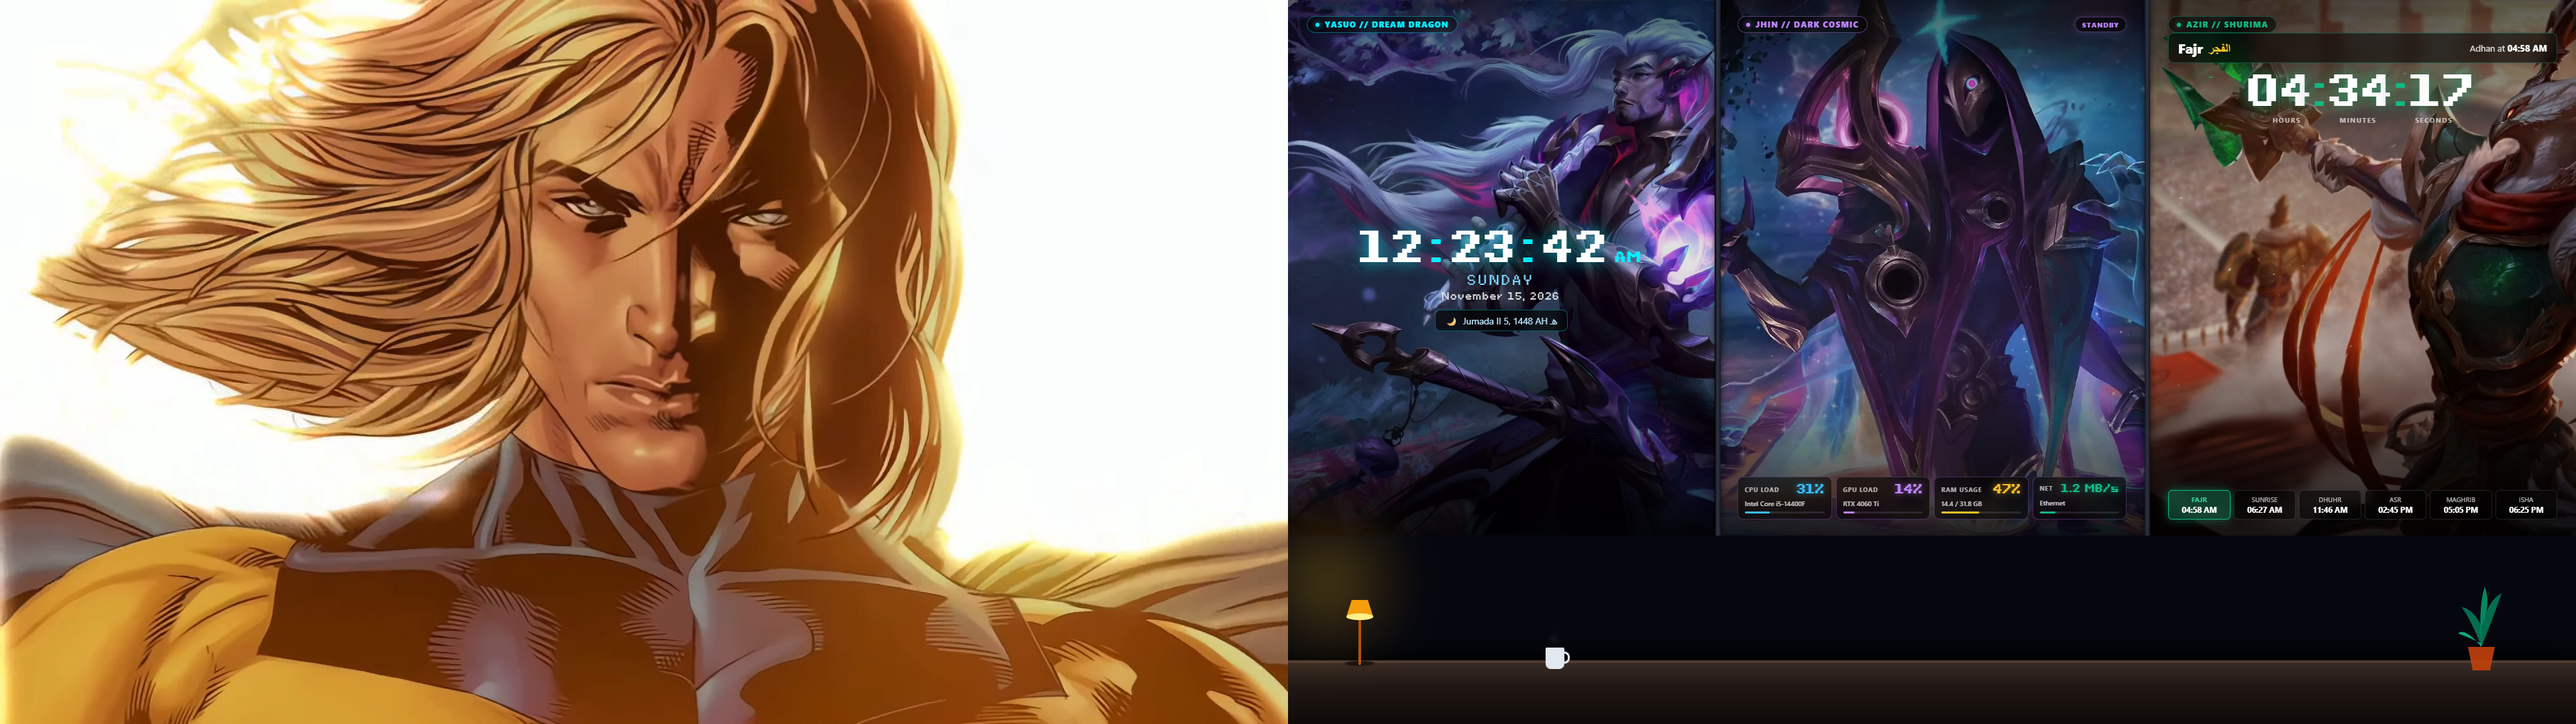
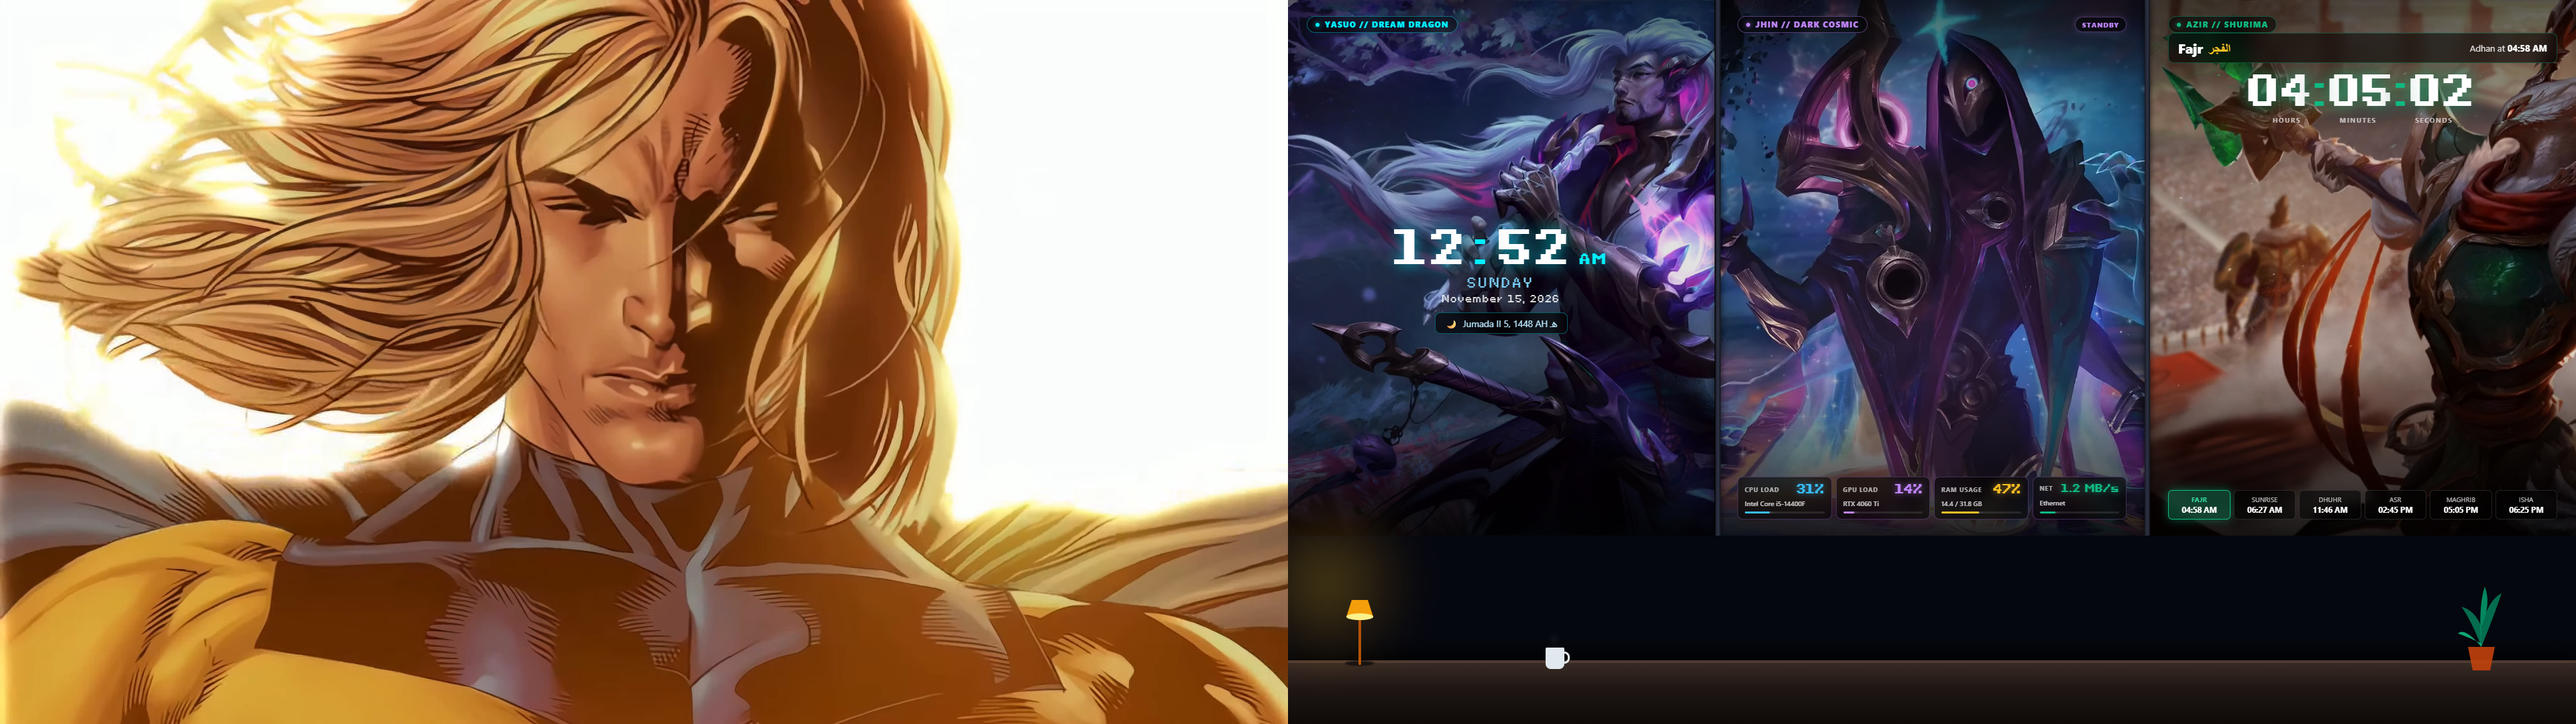
Update Yasuo clock display: format as 12-hour HH:MM AM/PM without seconds

diff --git a/Dual_Screen_Sentry_League_Theme/league/index.html b/Dual_Screen_Sentry_League_Theme/league/index.html
@@ -231,9 +231,9 @@
 
     .floating-time-big {
       font-family: 'PixeloidSansBold', monospace;
-      font-size: clamp(2.5rem, 4.2vw, 3.8rem); letter-spacing: 2px; color: #fff;
+      font-size: clamp(2.8rem, 4.8vw, 4.2rem); letter-spacing: 3px; color: #fff;
       text-shadow: 0 0 25px rgba(0, 240, 255, 0.8), 0 0 50px rgba(0, 0, 0, 0.9);
-      display: flex; align-items: baseline; justify-content: center; gap: 8px;
+      display: flex; align-items: baseline; justify-content: center; gap: 10px;
     }
 
     .floating-time-big .colon { animation: blink 1s infinite; color: var(--accent-cyan); }
@@ -416,7 +416,7 @@
             </div>
           </div>
           <div class="floating-clock-center">
-            <div class="floating-time-big" id="clock-time">--<span class="colon">:</span>--<span class="colon">:</span>-- <span class="floating-ampm">--</span></div>
+            <div class="floating-time-big" id="clock-time">--<span class="colon">:</span>-- <span class="floating-ampm">--</span></div>
             <div class="floating-day" id="clock-day">LOADING...</div>
             <div class="floating-date" id="clock-date">-- -- ----</div>
             <div class="floating-hijri">
@@ -600,10 +600,10 @@
     const hText = document.getElementById('hijri-text');
     function updateClock() {
       const now = new Date();
-      let h = now.getHours(), m = String(now.getMinutes()).padStart(2, '0'), s = String(now.getSeconds()).padStart(2, '0');
+      let h = now.getHours(), m = String(now.getMinutes()).padStart(2, '0');
       let ampm = h >= 12 ? 'PM' : 'AM';
       h = h % 12 || 12;
-      cTime.innerHTML = `${String(h).padStart(2, '0')}<span class="colon">:</span>${m}<span class="colon">:</span>${s} <span class="floating-ampm">${ampm}</span>`;
+      cTime.innerHTML = `${String(h).padStart(2, '0')}<span class="colon">:</span>${m} <span class="floating-ampm">${ampm}</span>`;
       cDay.textContent = now.toLocaleDateString('en-US', { weekday: 'long' });
       cDate.textContent = now.toLocaleDateString('en-US', { month: 'long', day: 'numeric', year: 'numeric' });
     }
